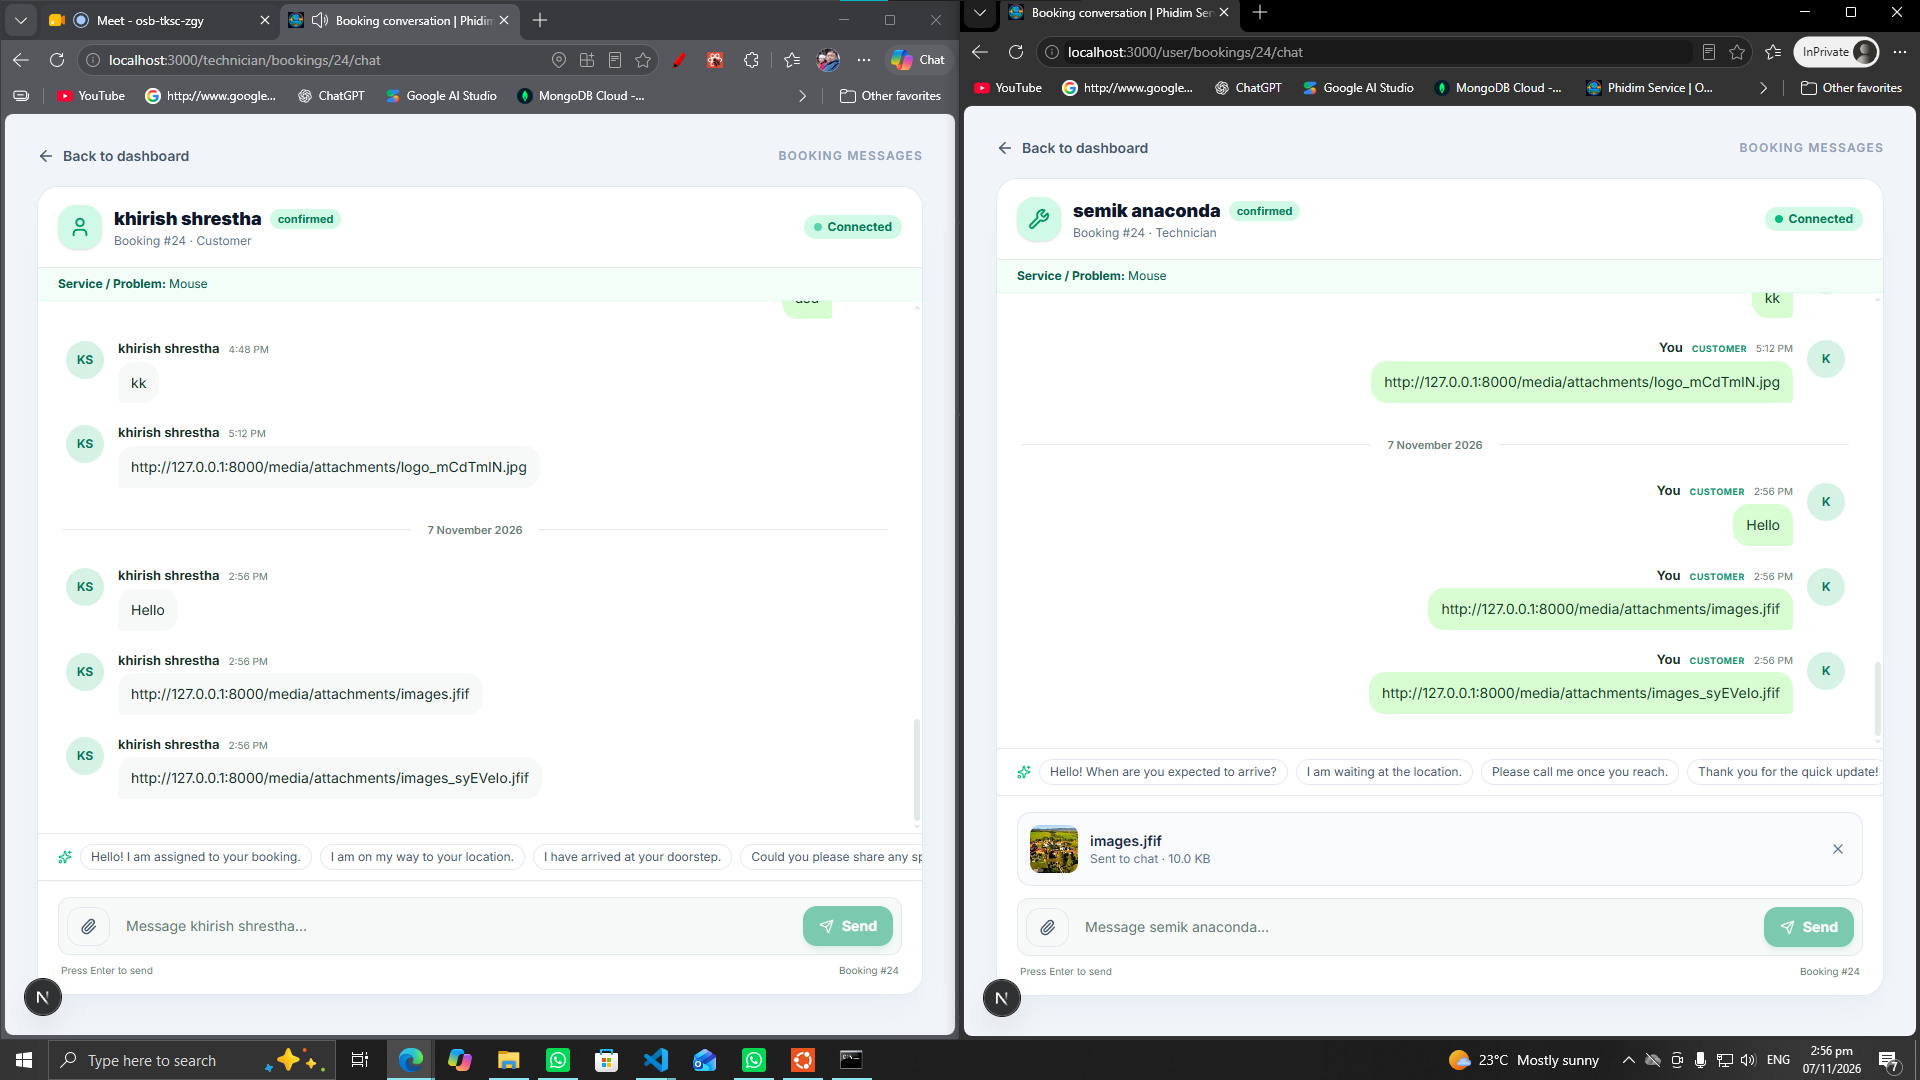
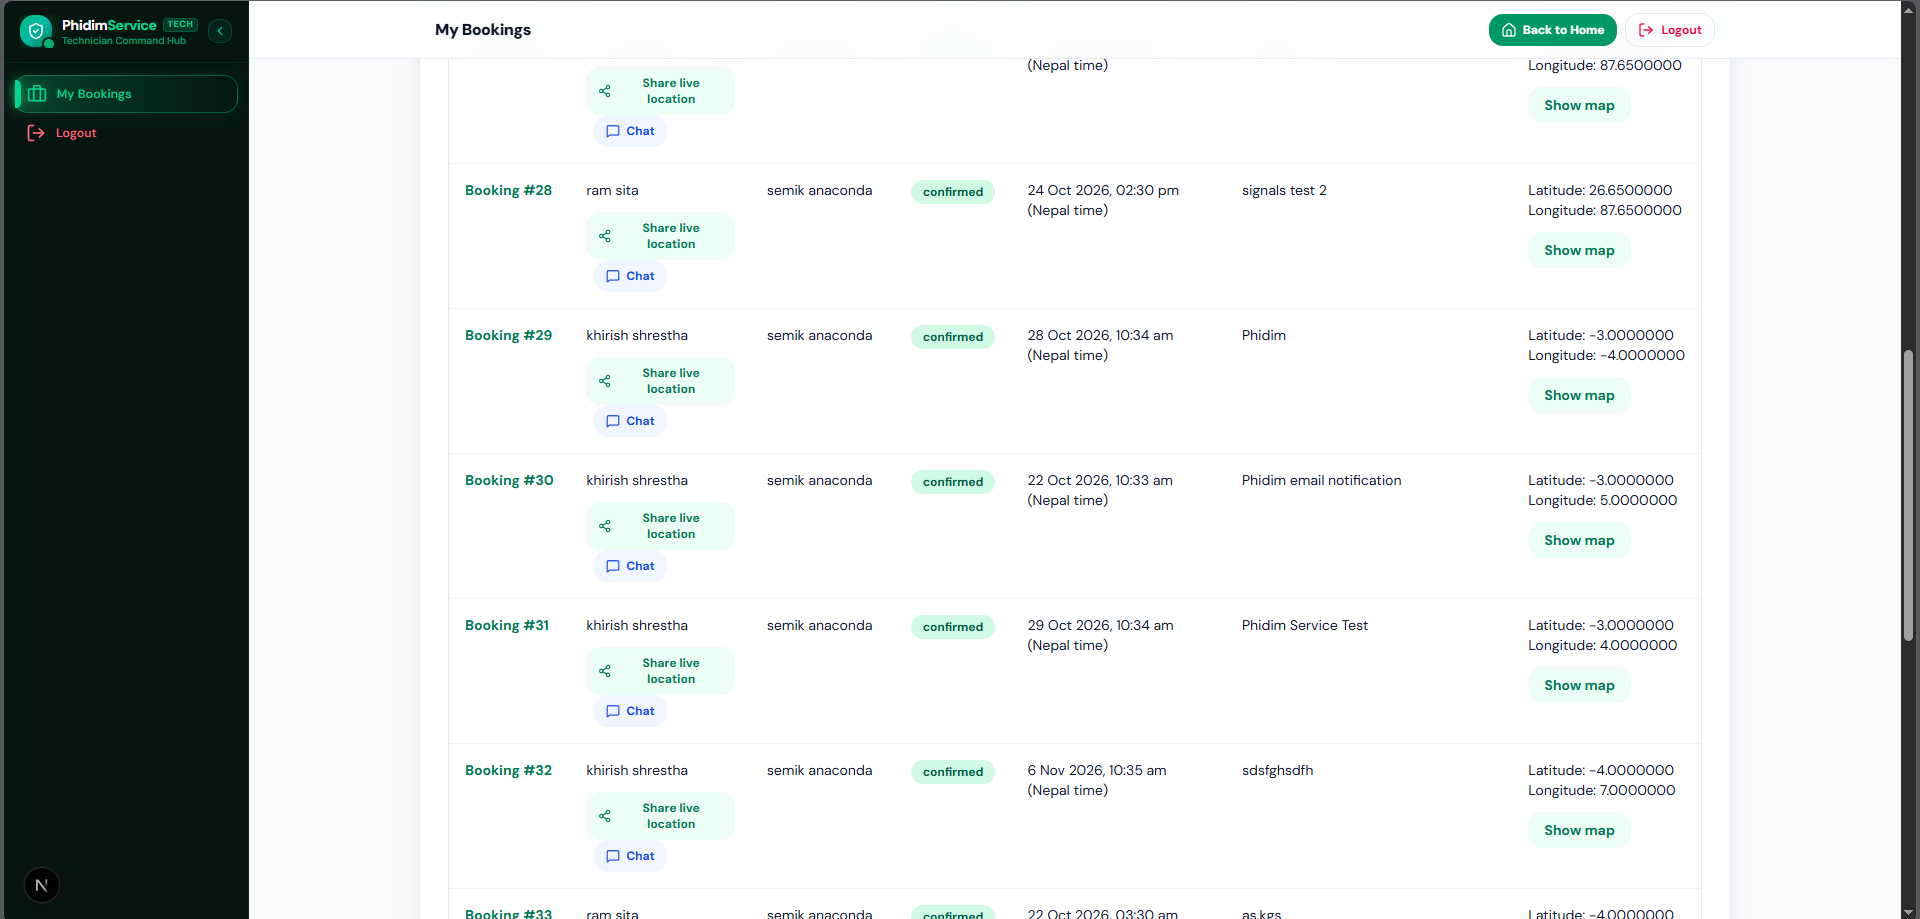
removed unnecessary things from tech and customer dashboard and add a new status called served

diff --git a/components/technician-dashboard/TechnicianBookings.js b/components/technician-dashboard/TechnicianBookings.js
@@ -38,6 +38,7 @@ export function TechnicianBookings() {
   const [notice, setNotice] = useState(null);
   const [location, setLocation] = useState(null);
   const [shareBooking, setShareBooking] = useState(null);
+  const [servingBooking, setServingBooking] = useState(null);
 
   const [shareConfirmed, setShareConfirmed] = useState(false);
   const [connectionStatus, setConnectionStatus] = useState("idle");
@@ -183,6 +184,7 @@ export function TechnicianBookings() {
   useEffect(() => {
     setDecision(null);
     setNotice(null);
+    setServingBooking(null);
     return () => {
       updateRequest.current?.abort();
       updateRequest.current = null;
@@ -229,6 +231,26 @@ export function TechnicianBookings() {
     }
   };
 
+  const markServed = async (booking, event) => {
+    event.stopPropagation();
+    if (updateRequest.current || booking.status === "s") return;
+    const controller = new AbortController();
+    updateRequest.current = controller;
+    setServingBooking({ id: booking.id, error: "" });
+    setNotice(null);
+    try {
+      const saved = await updateTechnicianBooking(booking.id, "s", { signal: controller.signal });
+      if (controller.signal.aborted) return;
+      setServingBooking(null);
+      setNotice({ owner, message: `Booking #${saved.booking} marked as served successfully.` });
+      setRevision(value => value + 1);
+    } catch (error) {
+      if (!controller.signal.aborted) setServingBooking({ id: booking.id, error: error.message || "Unable to mark booking as served. Please retry." });
+    } finally {
+      if (updateRequest.current === controller) updateRequest.current = null;
+    }
+  };
+
   useEffect(() => {
     if (!owner) {
       setState({ owner: null, revision: -1, bookings: [], loading: true, error: "" });
@@ -253,7 +275,6 @@ export function TechnicianBookings() {
   const filteredBookings = bookings.filter(booking => [
     `Booking #${booking.id}`,
     personName(booking.customer, "Customer unavailable"),
-    personName(booking.technician, "Technician unavailable"),
     booking.status_display, booking.status, booking.problem_details,
     scheduledDate(booking.date), booking.latitude, booking.longitude,
   ].join(" ").toLowerCase().includes(query));
@@ -296,7 +317,7 @@ export function TechnicianBookings() {
           <table className="w-full min-w-[1000px] text-left text-sm">
             <caption className="sr-only">Technician bookings. Scheduled dates are shown in Nepal time.</caption>
             <thead className="bg-slate-50 dark:bg-[#040e0b] text-slate-500 dark:text-slate-400">
-              <tr>{["Booking ID", "Customer", "Technician", "Status", "Scheduled (Nepal time)", "Problem details", "Location"].map(label => <th key={label} scope="col" className="px-4 py-3 font-semibold">{label}</th>)}</tr>
+              <tr>{["Booking ID", "Customer", "Status", "Scheduled (Nepal time)", "Problem details", "Location", "Action"].map(label => <th key={label} scope="col" className="px-4 py-3 font-semibold">{label}</th>)}</tr>
             </thead>
             <tbody className="divide-y divide-slate-100 dark:divide-emerald-900/30">
               {filteredBookings.length === 0 ? (
@@ -326,13 +347,10 @@ export function TechnicianBookings() {
                       <MessageSquare size={14} aria-hidden="true" />Chat
                     </button>
                   </td>
-                  <td className="px-4 py-4 break-words min-w-36">{personName(booking.technician, "Technician unavailable")}</td>
                   <td className="px-4 py-4"><span className="inline-block rounded-full bg-emerald-100 dark:bg-emerald-950 px-3 py-1 text-xs font-bold text-emerald-800 dark:text-emerald-300">{booking.status_display || booking.status || "Status unavailable"}</span></td>
                   <td className="px-4 py-4 min-w-48">{scheduledDate(booking.date)}</td>
                   <td className="px-4 py-4 min-w-64 max-w-sm whitespace-pre-wrap break-words">{booking.problem_details?.trim() || "Problem details unavailable"}</td>
                   <td className="px-4 py-4 whitespace-nowrap">
-                    <div>Latitude: {latitude}</div>
-                    <div>Longitude: {longitude}</div>
                     <div className="mt-3" onClick={event => event.stopPropagation()}>
                       {mapUrl ? (
                         <a href={directionsUrl || mapUrl} target="_blank" rel="noopener noreferrer" aria-label={`${mapLabel} for booking #${booking.id} (opens in a new tab)`} className="inline-flex rounded-xl bg-emerald-50 dark:bg-emerald-950 px-4 py-2 text-sm font-bold text-emerald-700 dark:text-emerald-400 hover:bg-emerald-100 dark:hover:bg-emerald-900 focus-visible:outline-none focus-visible:ring-2 focus-visible:ring-emerald-500">{mapLabel}</a>
@@ -343,6 +361,14 @@ export function TechnicianBookings() {
                         </>
                       )}
                     </div>
+                  </td>
+                  <td className="px-4 py-4" onClick={event => event.stopPropagation()}>
+                    {booking.status === "s" ? <span className="text-xs font-semibold text-emerald-700 dark:text-emerald-400">Served</span> : <>
+                      <button type="button" disabled={!!updateRequest.current} onClick={event => markServed(booking, event)} aria-label={`Mark booking #${booking.id} as served`} className="whitespace-nowrap rounded-xl bg-emerald-600 px-3 py-2 text-xs font-bold text-white hover:bg-emerald-700 disabled:opacity-50 focus-visible:outline-none focus-visible:ring-2 focus-visible:ring-emerald-500">
+                        {servingBooking?.id === booking.id ? "Marking served…" : "Mark served"}
+                      </button>
+                      {servingBooking?.id === booking.id && servingBooking.error && <p role="alert" className="mt-2 max-w-48 whitespace-normal text-xs text-rose-600">{servingBooking.error}</p>}
+                    </>}
                   </td>
                 </tr>
                 );

diff --git a/services/bookingService.js b/services/bookingService.js
@@ -42,7 +42,7 @@ export async function fetchBookings({ token = readToken(), baseUrl = API_BASE, f
 
 export async function updateTechnicianBooking(bookingId, status, { token = readToken(), baseUrl = API_BASE, fetchImpl = djangoFetch, signal } = {}) {
   if (!Number.isInteger(bookingId) || bookingId <= 0) throw new Error("Select a valid booking.");
-  if (!["c", "r"].includes(status)) throw new Error("Select accept or reject.");
+  if (!["c", "r", "s"].includes(status)) throw new Error("Select accept or reject, or mark the booking served.");
   if (!token) throw new Error("Please sign in again to update this booking.");
   const response = await fetchImpl(baseUrl.replace(/\/+$/, "") + "/technician/booking/", {
     method: "PATCH", signal, cache: "no-store", redirect: "error",

diff --git a/components/user-dashboard/UserDashboardNewUI.js b/components/user-dashboard/UserDashboardNewUI.js
@@ -117,7 +117,6 @@ export default function UserDashboardNewUI() {
                     <th scope="col">Technician</th>
                     <th scope="col">Status</th>
                     <th scope="col">Scheduled</th>
-                    <th scope="col">Fee (NPR)</th>
                     <th scope="col">Action</th>
                   </tr>
                 </thead>
@@ -136,7 +135,6 @@ export default function UserDashboardNewUI() {
                         </span>
                       </td>
                       <td>{scheduledDate(booking.date)}</td>
-                      <td>{booking.amount ?? booking.numericAmount ?? "Unavailable"}</td>
                       <td>
                         <div className={styles.actionButtons}>
                           <button
